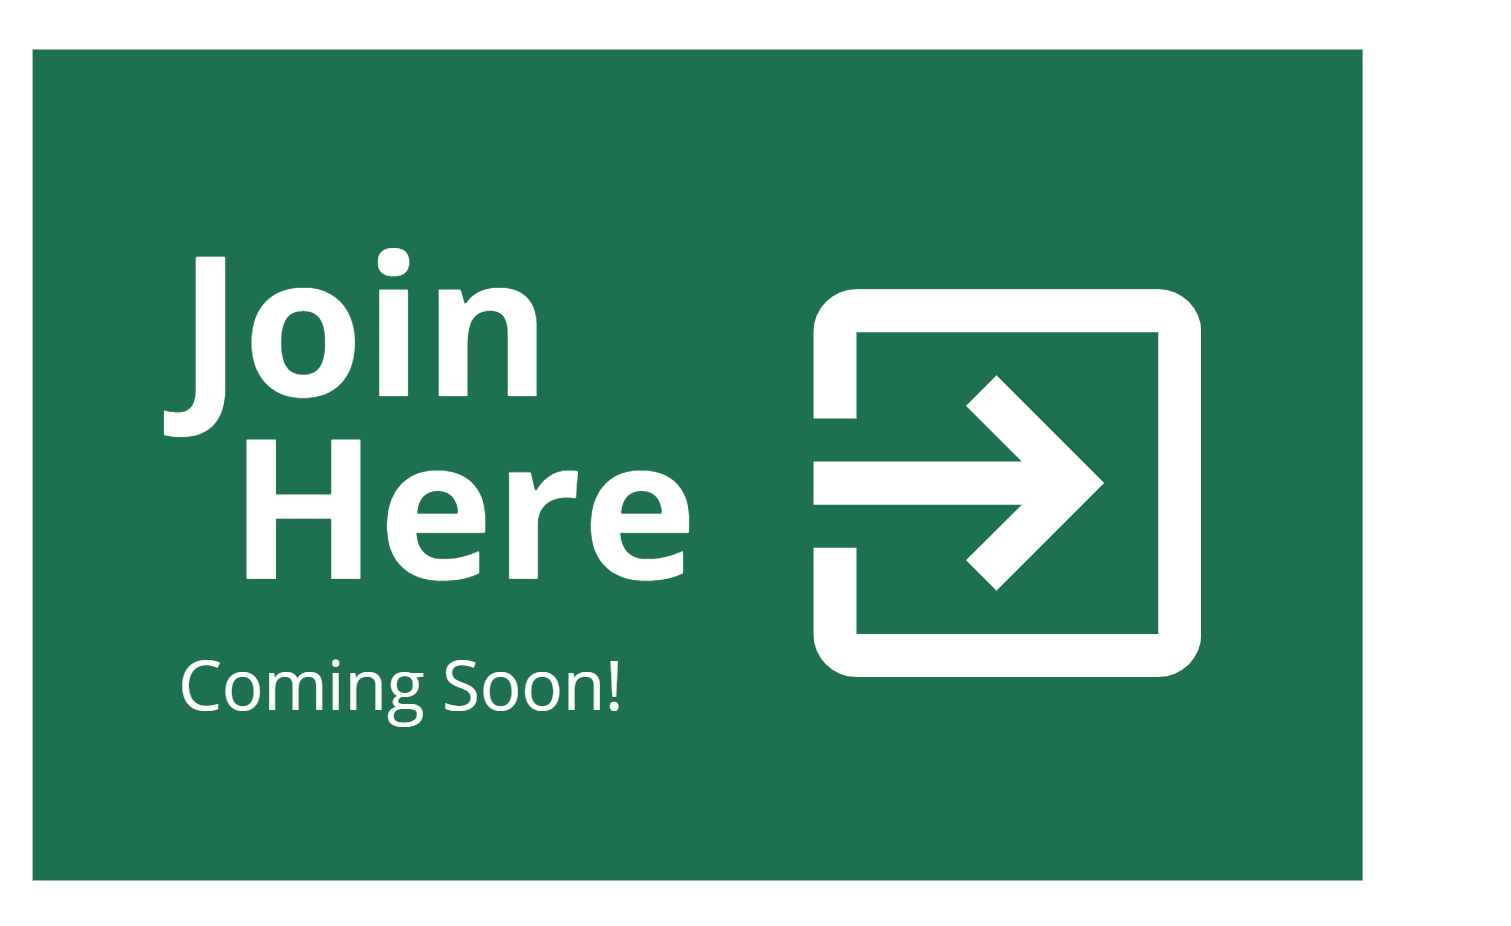
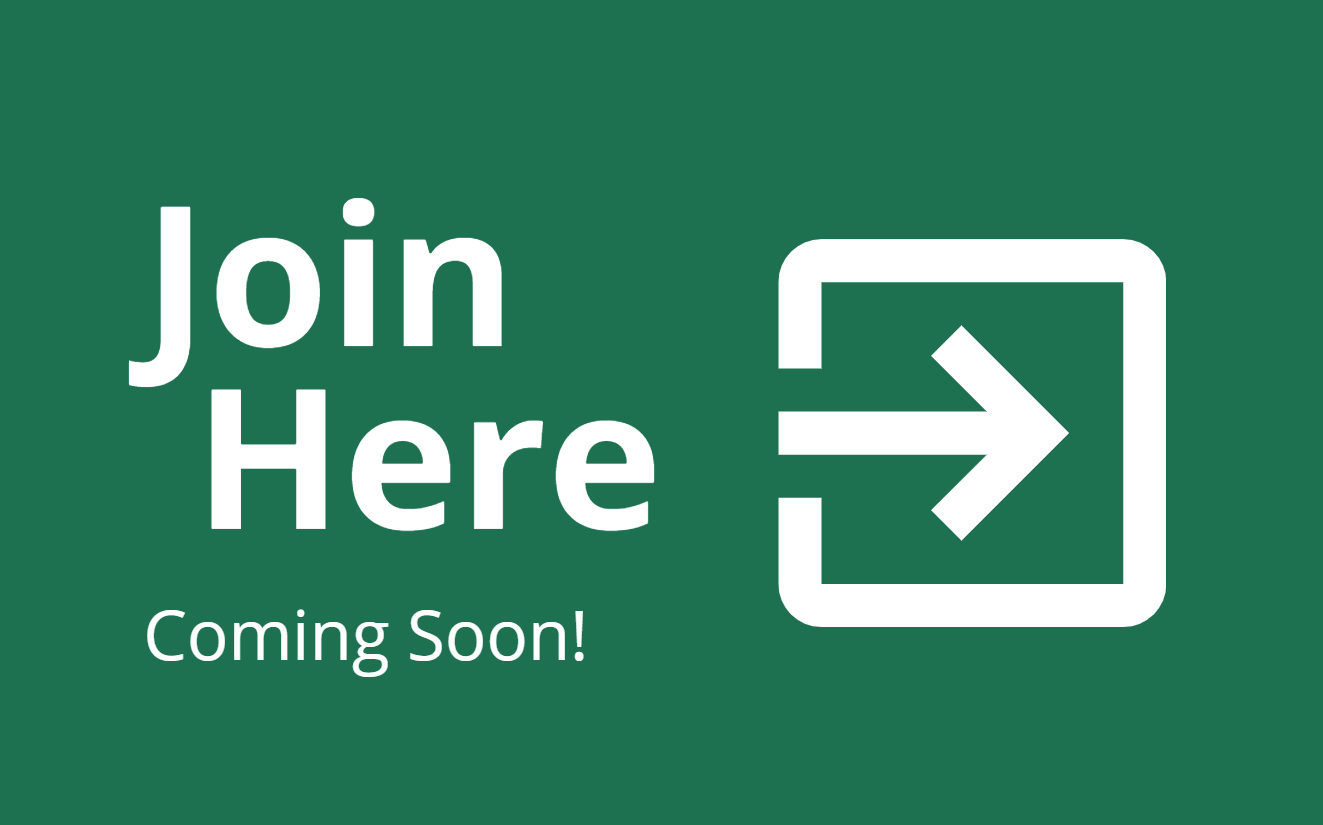
배경 색깔 널기

diff --git a/style.css b/style.css
@@ -1,3 +1,7 @@
+body{
+  background-color: #1D7151;
+}
+
 :root {
   --accent-color:#12887A;
   --text-color: white;
@@ -7,7 +11,7 @@
 .body {
   margin: 0;
   font-family: 'Montserrat';
-  background-color: #12887A;
+
 }
 
 a {

diff --git a/Cpu.html b/Cpu.html
@@ -24,4 +24,5 @@
     </ul>
   </nav>
   <img src="img/background.png" width="1000" height="600">
+
 </body>
